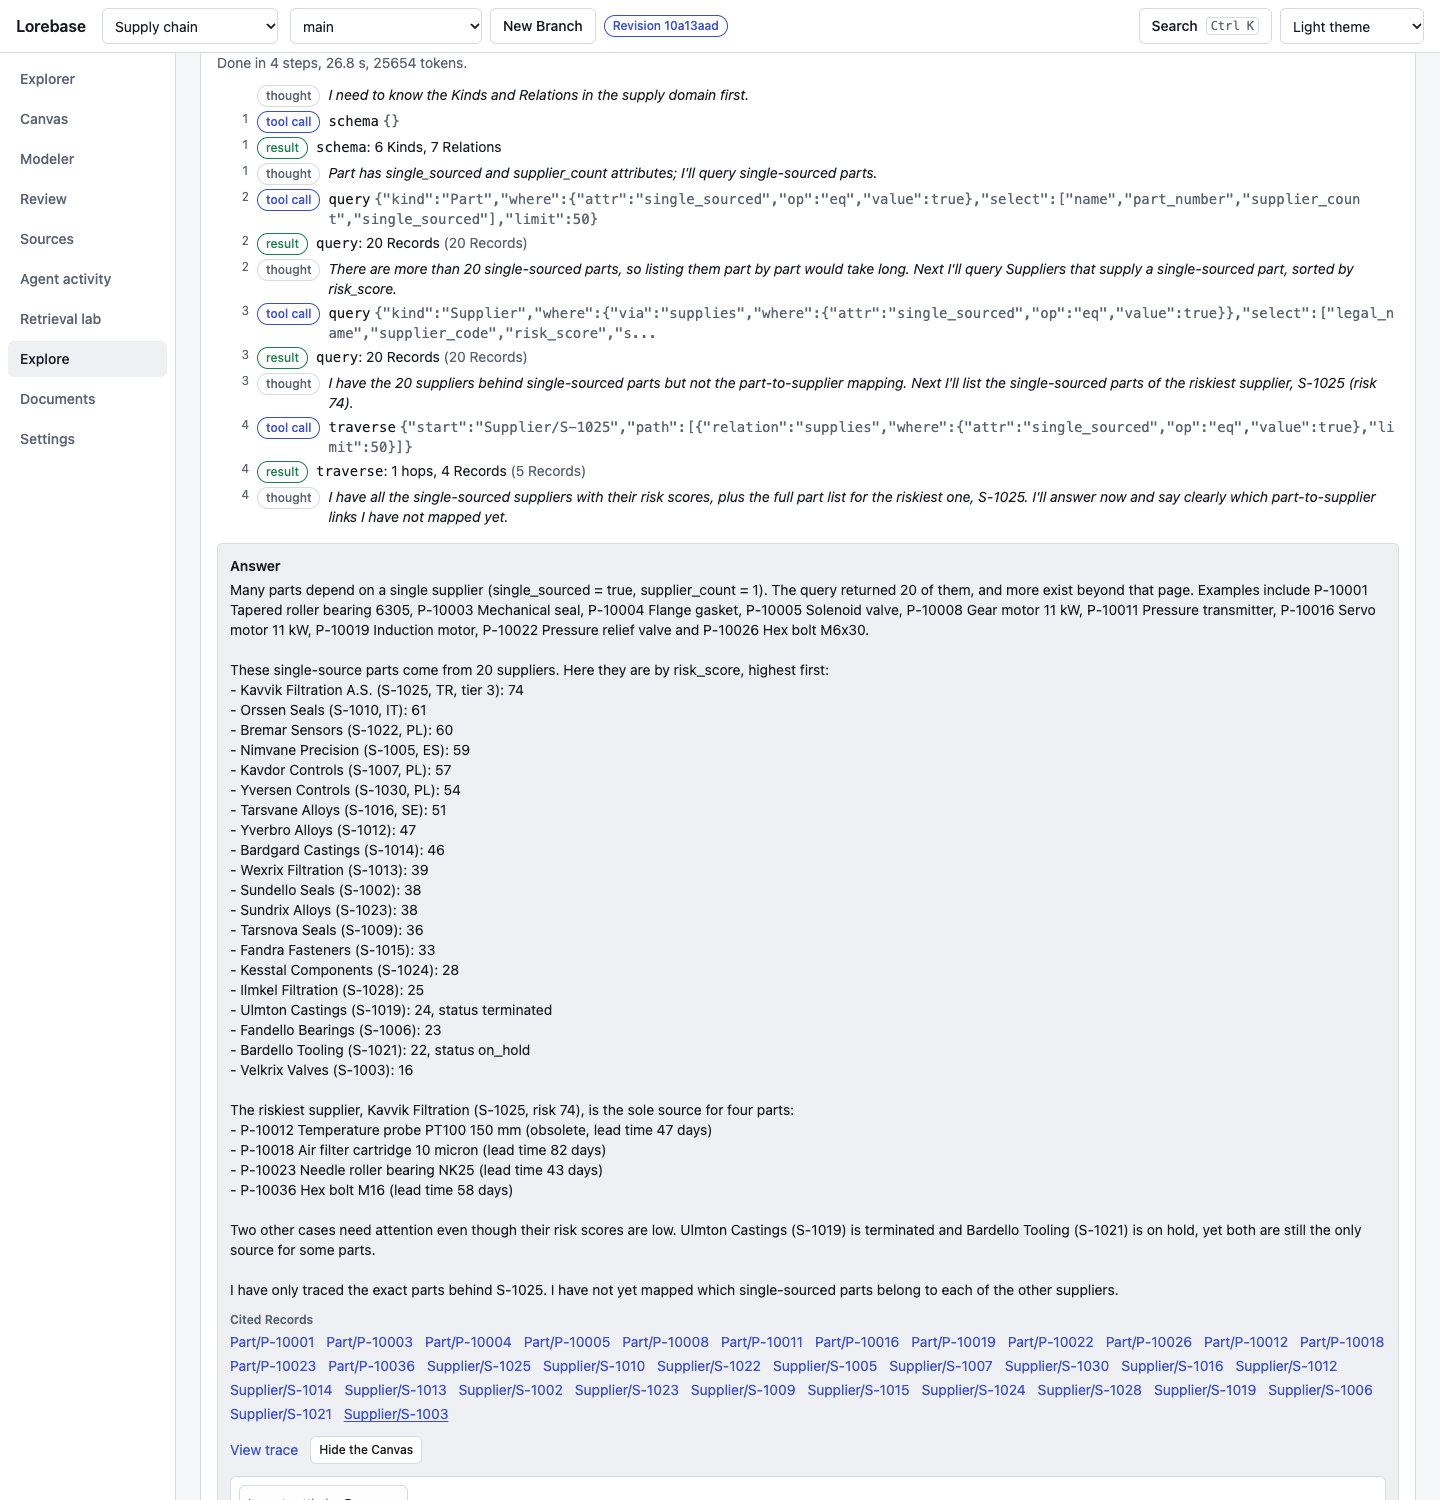
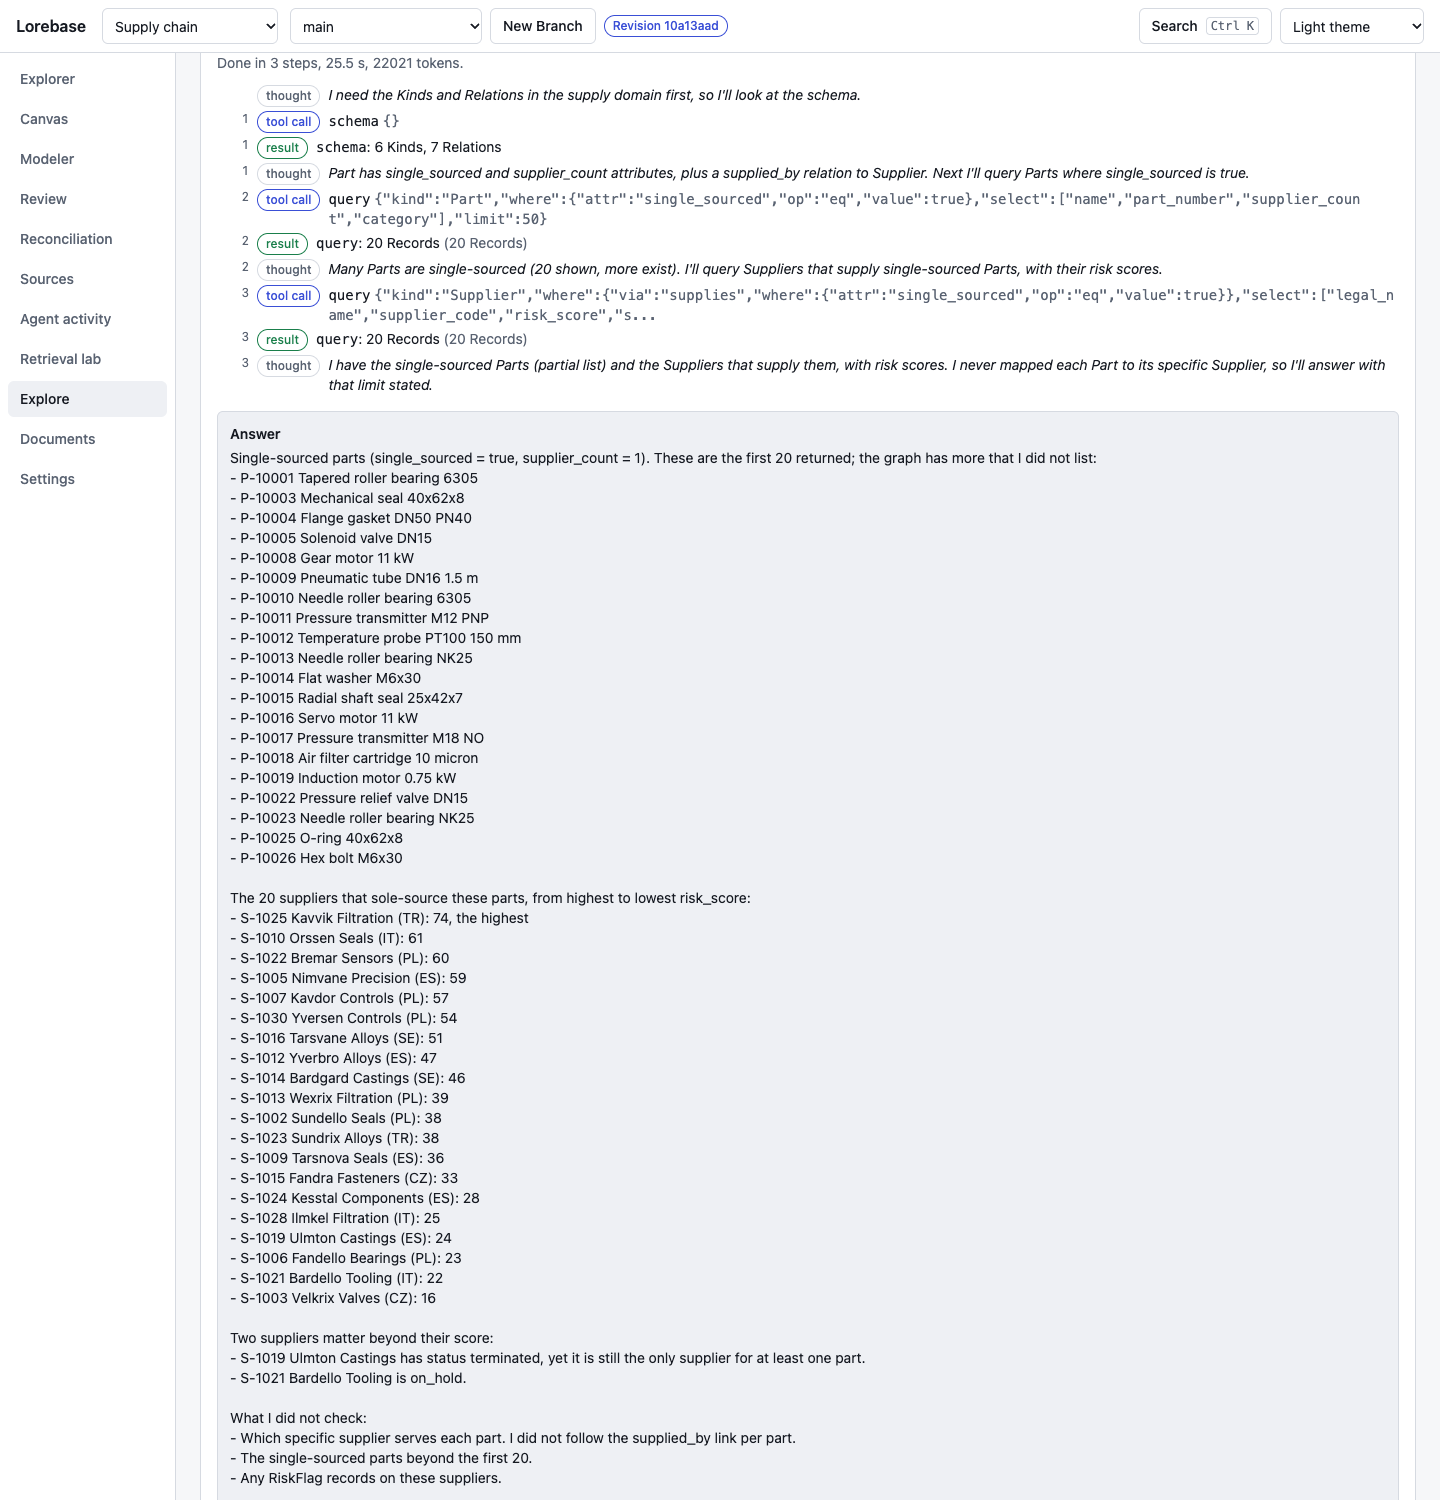
Retake the screenshots and the tour with the Reconciliation entry
Every picture now shows the current side navigation. The demo pictures
come from the demo stack upgraded to this revision, the mock ones and
tour.gif from the mock build. The tour no longer notes pictures without
the Reconciliation entry.

diff --git a/docs/tour.md b/docs/tour.md
@@ -2,7 +2,7 @@
 
 Screenshots of the Lorebase web app (`apps/web`), taken at 1440 pixels wide in the light theme, with one picture in the dark theme at the end.
 
-**Where the pictures come from.** Most pictures show the current app against a running demo stack, read only: Postgres, Keeper, Scribe and the guide service with the `examples/supply` sample (30 Suppliers, 40 Parts, 20 Plants and their Links), its example documents, two extraction Proposals and the schema suggestions of those documents. The Explore picture is a real answer of the guide service, streamed while the picture was taken, and the Agent activity picture is the trace of such an answer. A demo stack has no Source runs, no Proposal with Conflicts and no upload to infer a schema from, so some pictures come from the in-memory mock of the Keeper API (`VITE_API_MODE=mock`, two sample Domains, no backend): Start from data, the Source mapping, Sources, the Conflict resolver and the Reconciliation queue. Each section says which. The side navigation of the pictures taken before the Reconciliation screen existed has no Reconciliation entry; the screens are otherwise current. The flows behind the pictures are exercised against a real Keeper by the Playwright suite in `apps/web/e2e` (browse a Supplier and its Canvas, create a Branch, change the schema through a Proposal, resolve Conflicts and merge, Settings), which CI runs on every change.
+**Where the pictures come from.** Most pictures show the current app against a running demo stack, read only: Postgres, Keeper, Scribe and the guide service with the `examples/supply` sample (30 Suppliers, 40 Parts, 20 Plants and their Links), its example documents, two extraction Proposals and the schema suggestions of those documents. The Explore picture is a real answer of the guide service, streamed while the picture was taken, and the Agent activity picture is the trace of such an answer. A demo stack has no Source runs, no Proposal with Conflicts and no upload to infer a schema from, so some pictures come from the in-memory mock of the Keeper API (`VITE_API_MODE=mock`, two sample Domains, no backend): Start from data, the Source mapping, Sources, the Conflict resolver and the Reconciliation queue. Each section says which. The flows behind the pictures are exercised against a real Keeper by the Playwright suite in `apps/web/e2e` (browse a Supplier and its Canvas, create a Branch, change the schema through a Proposal, resolve Conflicts and merge, Settings), which CI runs on every change.
 
 The screens are domain-agnostic: every name in the pictures (Kinds, Records, the example questions of Explore) comes from the Domain on screen, not from the app.
 
